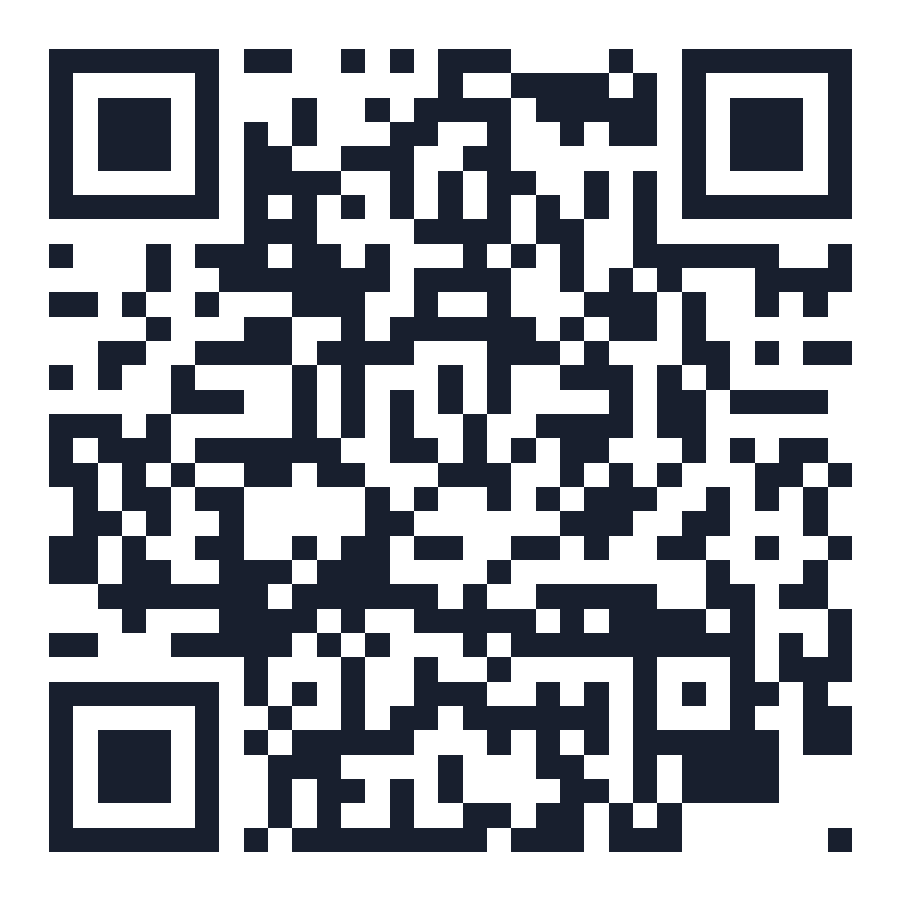
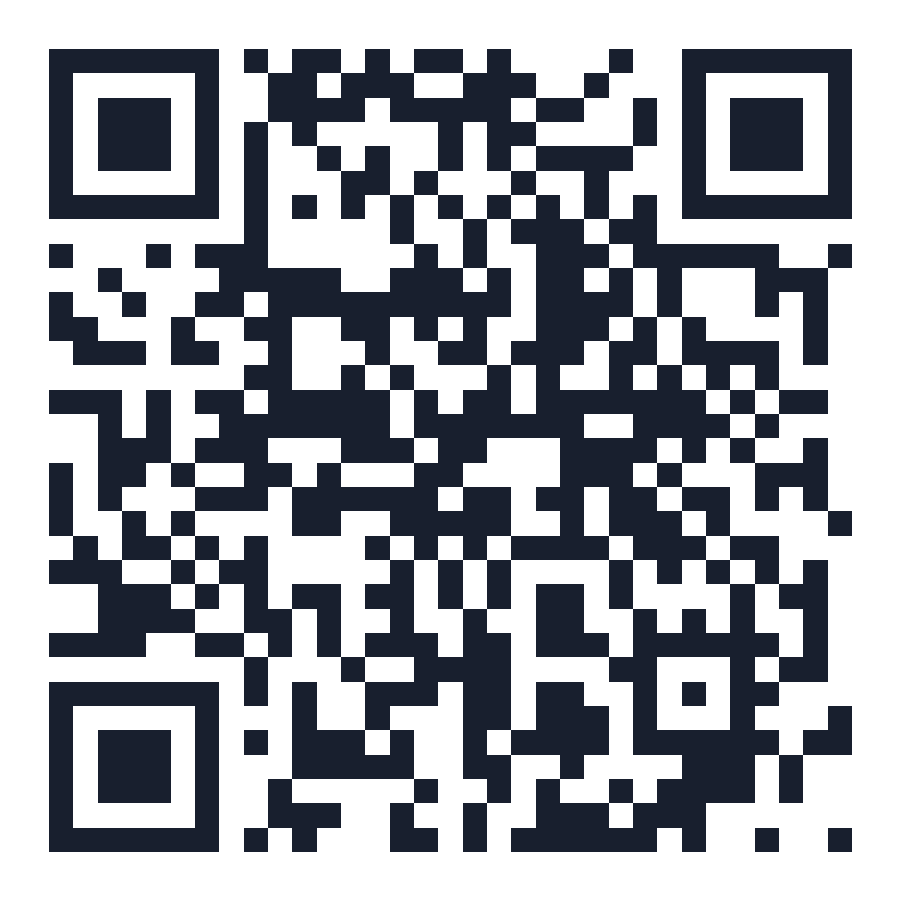
QR codes vers le site public de démonstration
Claude-Session: https://claude.ai/code/session_016jAg3zEtKAFhpWcZumTAqH

diff --git a/docs/kit-test-lycee.md b/docs/kit-test-lycee.md
@@ -6,7 +6,7 @@ Faire essayer le prototype « Suivi Vœux » à des élèves de terminale, en 20
 
 1. **Accord du chef d'établissement.** Lui envoyer le message ci-dessous. Idéalement, la séance a lieu avec le professeur principal ou le psychologue de l'Éducation nationale, par exemple pendant une heure consacrée à l'orientation.
 2. **Information des familles** par l'établissement (ENT ou carnet), au moins une semaine avant, avec la note ci-dessous. Un élève dont la famille s'oppose ne participe pas, sans avoir à se justifier.
-3. **Vérifier le matériel** : le lien du prototype s'ouvre sur un téléphone en 4G ; le Wi-Fi de l'établissement peut bloquer certains sites, le tester sur place avant.
+3. **Vérifier le matériel** : le lien du prototype (https://brunomauneau-dev.github.io/suivi-voeux-demo/) s'ouvre sur un téléphone en 4G ; le Wi-Fi de l'établissement peut bloquer certains sites, le tester sur place avant.
 4. Préparer les QR codes à projeter :
    - `qr-demo-animee.png` : la démo animée (1 minute), pour ouvrir la séance ;
    - `qr-prototype.png` : le prototype, que les élèves manipulent eux-mêmes.
